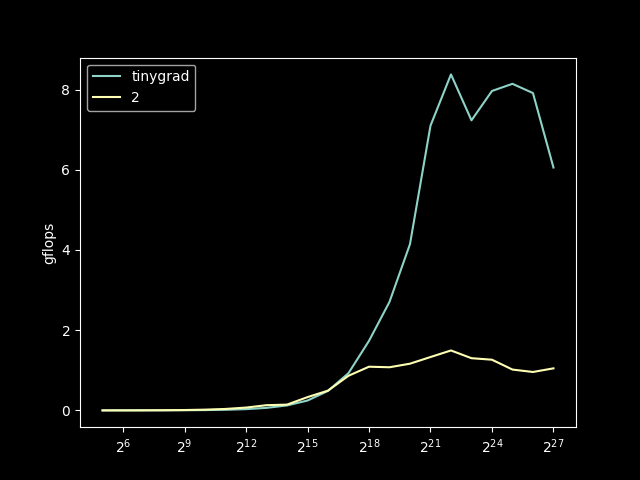
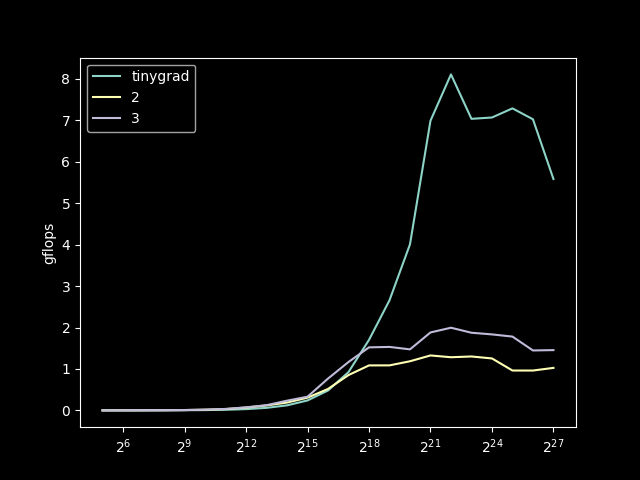
3

diff --git a/perf.py b/perf.py
@@ -9,23 +9,23 @@ from tinygrad.tensor import Tensor
 
 
 def tune(
-    sched: Callable,
+    func: Callable,
     n: int,
-    config: dict[str, list],
+    arg: dict[str, list],
     run: int = 10,
 ) -> dict:
     best_time, best_pair = float("inf"), None
     rng = np.random.default_rng()
     data = rng.standard_normal(size=(n), dtype=np.float32)
 
-    for k, values in config.items():
-        for v in values:
+    for k, val in arg.items():
+        for v in val:
             kwargs = {"global_size": [1, 1, 1], k: v}
 
             _time = []
             for _ in range(run):
                 st = time.perf_counter()
-                sched(n, data, **kwargs)
+                func(n, data, **kwargs)
                 Device[Device.DEFAULT].synchronize()
                 _time.append(time.perf_counter() - st)
 
@@ -51,21 +51,21 @@ def plot(res: dict):
 
 
 def run(kernel):
-    config = {
+    arg = {
         "local_size": [[2**i, 1, 1] for i in range(5, 11)],
     }
     n_list = [2**i for i in range(5, 28)]
-    rng = np.random.default_rng()
 
-    param_tune = {}
+    arg_tune = {}
     for k in list(kernel.keys()):
-        param_tune[k] = {}
+        arg_tune[k] = {}
         for n in n_list:
-            param_tune[k][n] = tune(kernel[k], n, config)
+            arg_tune[k][n] = tune(kernel[k], n, arg)
 
     res = {name: {"n": [], "gflops": []} for name in ["tinygrad"] + list(kernel.keys())}
-    NUM_run = 100
+    num_run = 100
 
+    rng = np.random.default_rng()
     for n in n_list:
         print(f"n {n}")
         op = 5 * n
@@ -76,7 +76,7 @@ def run(kernel):
             return t.softmax().realize()
 
         _time = []
-        for _ in range(NUM_run):
+        for _ in range(num_run):
             st = time.perf_counter()
             tiny_out = tiny_jit(Tensor(data)).realize().numpy()
             Device[Device.DEFAULT].synchronize()
@@ -87,10 +87,10 @@ def run(kernel):
         print(f"tinygrad {gflops:.2f} gflops")
 
         for name, func in kernel.items():
-            local_size = param_tune.get(name).get(n).get("local_size")
+            local_size = arg_tune.get(name).get(n).get("local_size")
 
             _time = []
-            for _ in range(NUM_run):
+            for _ in range(num_run):
                 st = time.perf_counter()
                 out = func(n, data, global_size=[1, 1, 1], local_size=local_size)
                 Device[Device.DEFAULT].synchronize()

diff --git a/metal.py b/metal.py
@@ -80,6 +80,49 @@ kernel void k2(device float *d0, device float *d1, uint3 gid [[threadgroup_posit
 """
 
 
+k3 = """
+#include <metal_stdlib>
+using namespace metal;
+
+kernel void k3(device float *d0, device float *d1, uint3 gid [[threadgroup_position_in_grid]], uint3 lid [[thread_position_in_threadgroup]]) {{
+    size_t lid0 = lid.x;
+    threadgroup float reduce[{local_size[0]}];
+
+    float max_val = -FLT_MAX;
+    for (size_t i = lid0; i < (size_t){n}; i += {local_size[0]}) {{
+        max_val = fmax(max_val, d1[i]);
+    }}
+    reduce[lid0] = max_val;
+    for (size_t stride = {local_size[0]} / 2; stride > 0; stride /= 2) {{
+        threadgroup_barrier(mem_flags::mem_threadgroup);
+        if (lid0 < stride) {{
+            reduce[lid0] = fmax(reduce[lid0], reduce[lid0 + stride]);
+        }}
+    }}
+
+    threadgroup_barrier(mem_flags::mem_threadgroup);
+    max_val = reduce[0];
+    float sum_exp = 0.0f;
+    for (size_t i = lid0; i < (size_t){n}; i += {local_size[0]}) {{
+        sum_exp += exp(d1[i] - max_val);
+    }}
+    reduce[lid0] = sum_exp;
+    for (size_t stride = {local_size[0]} / 2; stride > 0; stride /= 2) {{
+        threadgroup_barrier(mem_flags::mem_threadgroup);
+        if (lid0 < stride) {{
+            reduce[lid0] += reduce[lid0 + stride];
+        }}
+    }}
+
+    threadgroup_barrier(mem_flags::mem_threadgroup);
+    sum_exp = reduce[0];
+    for (size_t i = lid0; i < (size_t){n}; i += {local_size[0]}) {{
+        d0[i] = exp(d1[i] - max_val) / sum_exp;
+    }}
+}}
+"""
+
+
 def _sched(
     name: str,
     kernel: str,
@@ -111,5 +154,6 @@ def _sched(
 if __name__ == "__main__":
     kernel = {
         "2": partial(_sched, "k2", k2),
+        "3": partial(_sched, "k3", k3),
     }
     perf.run(kernel)
